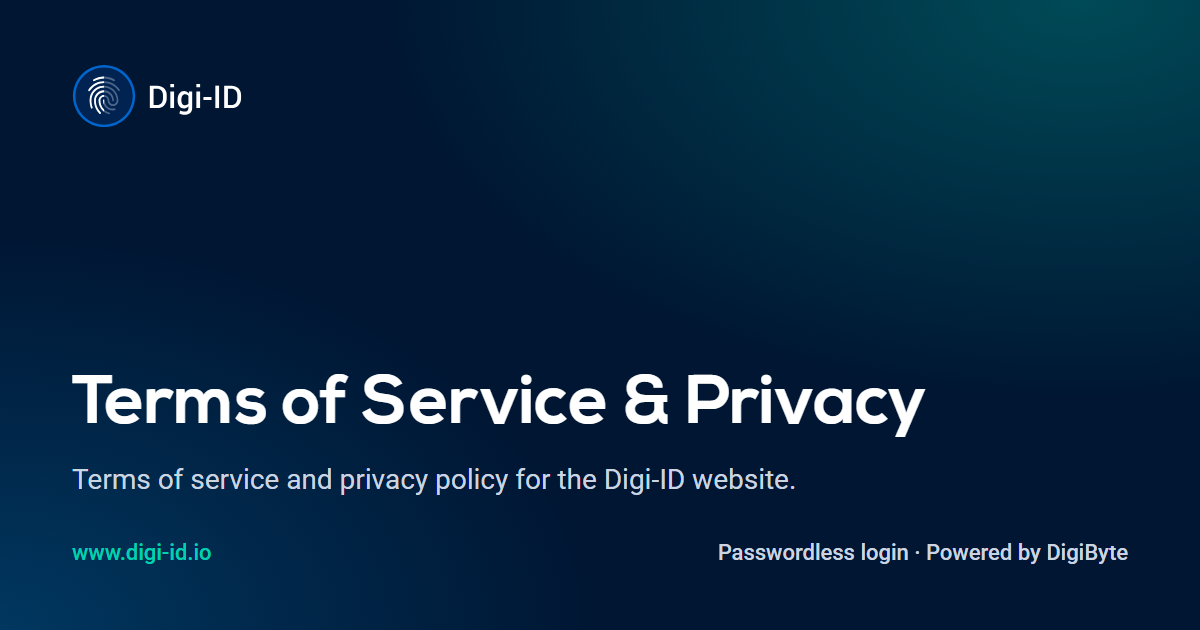
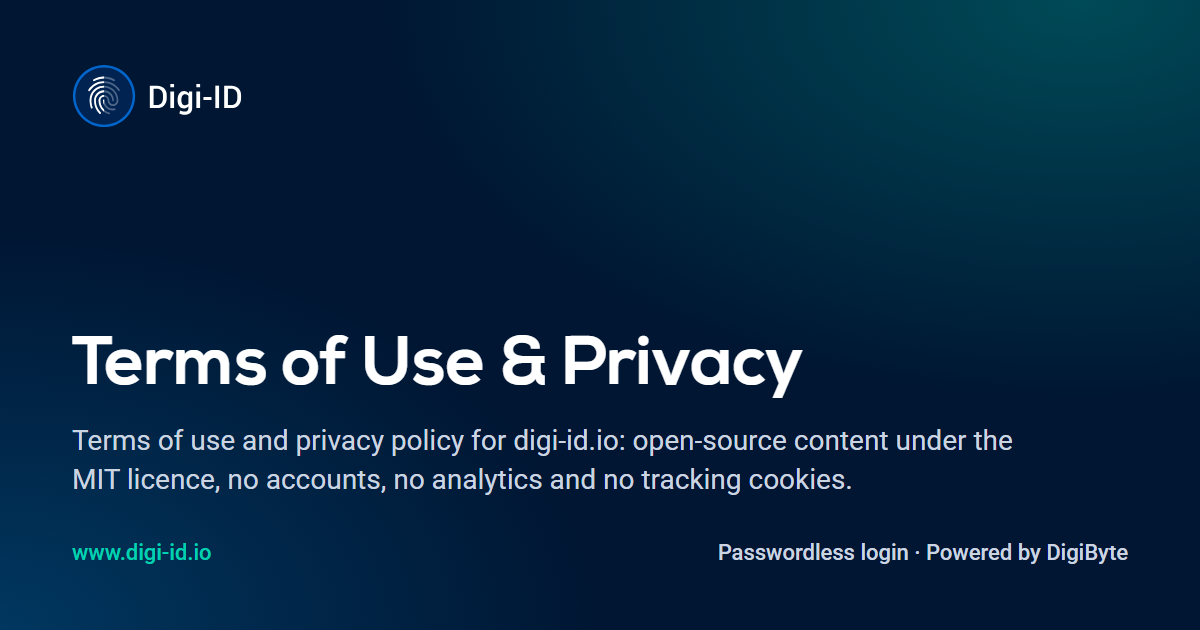
List Coinomi, prepare digiid-core for npm, rewrite terms and privacy, add launch gates and traffic snapshots

Changed region(s): [[0.0617, 0.5127, 0.8633, 0.7841]]

diff --git a/src/pages/ToS.html b/src/pages/ToS.html
@@ -1,76 +1,66 @@
 ---
 {
-  "title": "Terms of Service & Privacy – Digi-ID",
-  "description": "Terms of service and privacy policy for the Digi-ID website."
+  "title": "Terms of Use & Privacy – Digi-ID",
+  "description": "Terms of use and privacy policy for digi-id.io: open-source content under the MIT licence, no accounts, no analytics and no tracking cookies."
 }
 ---
 <article class="section" aria-labelledby="tos-title">
   <div class="container-x">
     <div class="prose-doc">
-      <h1 id="tos-title" class="text-4xl">Digi-ID Terms of Service</h1>
+      <p class="eyebrow">Last updated 27 September 2026</p>
+      <h1 id="tos-title" class="text-4xl">Terms of Use &amp; Privacy</h1>
+      <p class="text-lg text-slate-600 dark:text-slate-400">digi-id.io is an open-source, volunteer-run website about the Digi-ID protocol. It has no accounts, sells nothing and does not track you. The short version: use it freely, at your own risk, and nothing you do here is collected by us.</p>
 
-      <h2>1. Terms</h2>
-      <p>By accessing the website at <a href="https://www.digi-id.io">https://www.digi-id.io</a>, you are agreeing to be bound by these terms of service, all applicable laws and regulations, and agree that you are responsible for compliance with any applicable local laws. If you do not agree with any of these terms, you are prohibited from using or accessing this site. The materials contained in this website are protected by applicable copyright and trademark law.</p>
+      <h2 id="terms">Terms of use</h2>
 
-      <h2>2. Use License</h2>
-      <ol type="a">
-        <li>Permission is granted to temporarily download one copy of the materials (information or software) on Digi-ID's website for personal, non-commercial transitory viewing only. This is the grant of a license, not a transfer of title, and under this license you may not:
-          <ol type="i">
-            <li>modify or copy the materials;</li>
-            <li>use the materials for any commercial purpose, or for any public display (commercial or non-commercial);</li>
-            <li>attempt to decompile or reverse engineer any software contained on Digi-ID's website;</li>
-            <li>remove any copyright or other proprietary notations from the materials; or</li>
-            <li>transfer the materials to another person or &ldquo;mirror&rdquo; the materials on any other server.</li>
-          </ol>
-        </li>
-        <li>This license shall automatically terminate if you violate any of these restrictions and may be terminated by Digi-ID at any time. Upon terminating your viewing of these materials or upon the termination of this license, you must destroy any downloaded materials in your possession whether in electronic or printed format.</li>
-      </ol>
+      <h3>1. Who runs this site</h3>
+      <p>This site is maintained by volunteers from the DigiByte community in the open-source <a href="{{ site.repo }}" rel="noopener" target="_blank">digi-id-io repository</a>. It is not operated by a company, and no one is paid to run it.</p>
 
-      <h2>3. Disclaimer</h2>
-      <ol type="a">
-        <li>The materials on Digi-ID's website are provided on an &lsquo;as is&rsquo; basis. Digi-ID makes no warranties, expressed or implied, and hereby disclaims and negates all other warranties including, without limitation, implied warranties or conditions of merchantability, fitness for a particular purpose, or non-infringement of intellectual property or other violation of rights.</li>
-        <li>Further, Digi-ID does not warrant or make any representations concerning the accuracy, likely results, or reliability of the use of the materials on its website or otherwise relating to such materials or on any sites linked to this site.</li>
-      </ol>
+      <h3>2. Licence</h3>
+      <p>The site's source code, including the example code and the <code>digiid-core</code> library, is released under the <a href="{{ site.repo }}/blob/main/LICENSE" rel="noopener" target="_blank">MIT licence</a>. You may use, copy, modify and redistribute it, including commercially, as that licence allows. The Digi-ID and DigiByte names and logos identify the community projects; please don't use them in a way that suggests endorsement of your product.</p>
 
-      <h2>4. Limitations</h2>
-      <p>In no event shall Digi-ID or its suppliers be liable for any damages (including, without limitation, damages for loss of data or profit, or due to business interruption) arising out of the use or inability to use the materials on Digi-ID's website, even if Digi-ID or a Digi-ID authorized representative has been notified orally or in writing of the possibility of such damage. Because some jurisdictions do not allow limitations on implied warranties, or limitations of liability for consequential or incidental damages, these limitations may not apply to you.</p>
+      <h3>3. The demo and playground</h3>
+      <p>The sandbox demo and signature playground run entirely in your browser. The demo's simulated wallet uses a throwaway key that is never stored or sent anywhere. <strong>Never enter a real recovery phrase or private key into any website</strong>, including this one &mdash; nothing here will ever ask you to.</p>
 
-      <h2>5. Accuracy of materials</h2>
-      <p>The materials appearing on Digi-ID's website could include technical, typographical, or photographic errors. Digi-ID does not warrant that any of the materials on its website are accurate, complete or current. Digi-ID may make changes to the materials contained on its website at any time without notice. However Digi-ID does not make any commitment to update the materials.</p>
+      <h3>4. No warranty</h3>
+      <p>The site, documentation, code samples and libraries are provided &ldquo;as is&rdquo;, without warranty of any kind, express or implied, including fitness for a particular purpose. Security-sensitive code should be reviewed and tested before you rely on it in production. To the extent permitted by law, the contributors are not liable for any loss or damage arising from use of this site or its materials.</p>
 
-      <h2>6. Links</h2>
-      <p>Digi-ID has not reviewed all of the sites linked to its website and is not responsible for the contents of any such linked site. The inclusion of any link does not imply endorsement by Digi-ID of the site. Use of any such linked website is at the user's own risk.</p>
+      <h3>5. Third-party sites and services</h3>
+      <p>We link to wallets, libraries and other projects. Listing in the <a href="/ecosystem.html">ecosystem</a> is based on public proof of Digi-ID support, not an endorsement or audit. Those sites have their own terms and privacy policies. Account problems with a service that uses Digi-ID must be resolved with that service.</p>
 
-      <h2>7. Modifications</h2>
-      <p>Digi-ID may revise these terms of service for its website at any time without notice. By using this website you are agreeing to be bound by the then current version of these terms of service.</p>
+      <h3>6. Contributions</h3>
+      <p>Issues, pull requests and ecosystem submissions are welcome on GitHub and are subject to GitHub's terms. By contributing, you agree your contribution is licensed under the MIT licence.</p>
 
-      <h2>8. Governing Law</h2>
-      <p>These terms and conditions are governed by and construed in accordance with the laws of Worldwide and you irrevocably submit to the exclusive jurisdiction of the courts in that State or location.</p>
+      <h3>7. Changes</h3>
+      <p>These terms may change as the site evolves. Changes are made in the public repository, so the full history is always visible, and the date at the top of this page is updated.</p>
 
-      <h2 id="privacy">Privacy Policy</h2>
-      <p>Your privacy is important to us. It is Digi-ID's policy to respect your privacy regarding any information we may collect from you across our website, <a href="https://www.digi-id.io">https://www.digi-id.io</a>, and other sites we own and operate.</p>
-      <h3>Information we collect</h3>
-      <p>We collect information by fair and lawful means, with your knowledge and consent. We also let you know why we're collecting it and how it will be used. You are free to refuse our request for this information, with the understanding that we may be unable to provide you with some of your desired services without it.</p>
-      <h3>Use of information</h3>
-      <p>We may use a combination of identifying and non-identifying information to understand who our visitors are, how they use our services, and how we may improve their experience of our website in future. We do not disclose the specifics of this information publicly, but may share aggregated and anonymised versions of this information, for example, in website and customer usage trend reports.</p>
-      <h3>Data processing and storage</h3>
-      <p>We only retain personal information for as long as necessary to provide a service, or to improve our services in future. While we retain this data, we will protect it within commercially acceptable means to prevent loss and theft, as well as unauthorised access, disclosure, copying, use or modification. That said, we advise that no method of electronic transmission or storage is 100% secure, and cannot guarantee absolute data security.</p>
-      <h3>Third-party access to information</h3>
-      <p>We may use third-party services for our website and marketing activity. These services may access our data solely for the purpose of performing specific tasks on our behalf. We do not share any personally identifying information with these services without your explicit consent. We do not give these services permission to disclose or use any of our data for any other purpose.</p>
-      <p>We will refuse government and law enforcement requests for data if we believe a request is too broad or unrelated to its stated purpose. However, we may cooperate if we believe the requested information is necessary and appropriate to comply with legal process, to protect our own rights and property, to protect the safety of the public and any person, to prevent a crime, or to prevent what we reasonably believe to be illegal, legally actionable, or unethical activity.</p>
-      <p>We do not otherwise share or supply personal information to third parties. We do not sell or rent your personal information to marketers or third parties.</p>
-      <h3>Children's Privacy</h3>
-      <p>This website does not knowingly target or collect personal information from children. As a parent/guardian, please contact us if you believe your child is participating in an activity involving personal information on our website, and you have not received a notification or request for consent. We do not use your supplied contact details for marketing or promotional purposes.</p>
-      <h3>Limits of our policy</h3>
-      <p>This privacy policy only covers Digi-ID's own collecting and handling of data. We only work with partners, affiliates and third-party providers whose privacy policies align with ours, however we cannot accept responsibility or liability for their respective privacy practices.</p>
-      <p>Our website may link to external sites that are not operated by us. Please be aware that we have no control over the content and policies of those sites, and cannot accept responsibility or liability for their respective privacy practices.</p>
-      <h3>Changes to this policy</h3>
-      <p>At our discretion, we may update this policy to reflect current acceptable practices. We will take reasonable steps to let users know about changes via our website. Your continued use of this site after any changes to this policy will be regarded as acceptance of our practices around data and personal information.</p>
-      <h3>Your rights and responsibilities</h3>
-      <p>As our user, you have the right to be informed about how your data is collected and used. You are entitled to know what data we collect about you, and how it is processed. You are entitled to correct and update any personal information about you, and to request this information be deleted.</p>
-      <p>You are entitled to restrict or object to our use of your data, while retaining the right to use your personal information for your own purposes. You have the right to opt out of data about you being used in decisions based solely on automated processing.</p>
-      <p>Feel free to contact us if you have any concerns or questions about how we handle your data and personal information.</p>
-      <p>This policy is effective as of 10 May 2018.</p>
+      <h2 id="privacy">Privacy policy</h2>
+
+      <h3>What we collect</h3>
+      <p>Nothing. The site has no sign-up, no forms that send data to us, no analytics and no advertising or tracking cookies.</p>
+
+      <h3>What stays in your browser</h3>
+      <ul>
+        <li><strong>Theme choice:</strong> if you switch between light and dark mode, the choice is saved in your browser's local storage so it persists. It never leaves your device.</li>
+        <li><strong>Preferred code language:</strong> the language tab you pick in code samples is remembered the same way.</li>
+        <li><strong>Demo keys:</strong> held in memory only and discarded when you leave or refresh the page.</li>
+      </ul>
+      <p>You can clear these at any time by clearing this site's data in your browser settings.</p>
+
+      <h3>Hosting</h3>
+      <p>The site is served as static files by GitHub Pages. Like any web host, GitHub may process technical data such as your IP address to deliver pages and protect its service; see the <a href="https://docs.github.com/site-policy/privacy-policies/github-general-privacy-statement" rel="noopener" target="_blank">GitHub Privacy Statement</a>. Fonts, icons and scripts are served from this site, not from third-party CDNs.</p>
+
+      <h3>Embedded video</h3>
+      <p>The explainer video is not loaded until you press play. When you do, it is embedded from YouTube's privacy-enhanced domain (<code>youtube-nocookie.com</code>), and YouTube's <a href="https://policies.google.com/privacy" rel="noopener" target="_blank">privacy policy</a> applies to that playback.</p>
+
+      <h3>GitHub interactions</h3>
+      <p>If you open an issue, discussion or pull request, that happens on GitHub under your GitHub account and is public.</p>
+
+      <h3>Children</h3>
+      <p>The site is not directed at children and collects no personal information from anyone.</p>
+
+      <h3>Questions</h3>
+      <p>Questions about these terms or this policy can be raised in <a href="{{ site.discussions }}" rel="noopener" target="_blank">GitHub Discussions</a> or as an <a href="{{ site.repo }}/issues" rel="noopener" target="_blank">issue</a>. See also the <a href="/disclaimer.html">disclaimer</a>.</p>
     </div>
   </div>
 </article>

diff --git a/packages/digiid-core/README.md b/packages/digiid-core/README.md
@@ -1,0 +1,64 @@
+# digiid-core
+
+Digi-ID passwordless authentication for JavaScript and TypeScript. Build `digiid://` challenges, derive per-site keys, sign like a wallet and verify wallet callbacks. Works in browsers and Node.js 20+, with no DigiByte node or network access required.
+
+This is the code behind the [digi-id.io](https://www.digi-id.io) demo and signature playground, tested against the published Digi-ID derivation vector.
+
+```sh
+npm install digiid-core
+```
+
+## Verify a wallet callback (server)
+
+```js
+import { verifyCallback } from 'digiid-core';
+
+app.post('/digiid/callback', express.json(), (req, res) => {
+  const result = verifyCallback(req.body, { callback: 'https://www.example.com/digiid/callback' });
+  if (!result.valid) return res.status(401).json({ error: result.reason });
+
+  // result.nonce: look up the pending challenge, check it hasn't expired, then consume it.
+  // result.address: the user's Digi-ID for your site.
+  res.json({ message: 'Digi-ID verified' });
+});
+```
+
+`verifyCallback` checks the URI scheme, host and path against your callback, rejects `u=1` (plain HTTP) unless `allowUnsecure: true`, and verifies the DigiByte message signature. Nonce storage, expiry and single use are up to your app. See [Nonces, timeouts and replay protection](https://www.digi-id.io/guides/nonce-replay.html).
+
+## Issue a challenge
+
+```js
+import { buildUri, createNonce } from 'digiid-core';
+
+const nonce = createNonce(); // 128-bit hex from crypto.getRandomValues
+const uri = buildUri({ callback: 'https://www.example.com/digiid/callback', nonce });
+// digiid://www.example.com/digiid/callback?x=…  -> show as a QR code and a link
+```
+
+## Wallet side
+
+```js
+import { deriveKey, deriveAddress, signMessage, mnemonicToSeed } from 'digiid-core';
+
+const key = deriveKey(mnemonicToSeed(mnemonic), uri); // m/13'/A'/B'/C'/D' for this site
+const address = deriveAddress(key.publicKey);
+const signature = signMessage(uri, key.privateKey);
+```
+
+## API
+
+| Function | Purpose |
+| --- | --- |
+| `buildUri({ callback, nonce, unsecure? })` | Create a `digiid://` challenge URI |
+| `parseUri(uri)` | Parse a challenge into `{ host, path, nonce, unsecure }`, or `null` |
+| `callbackUrlFromUri(uri)` | The callback URL wallets post to and derive keys from |
+| `createNonce(bytes = 16)` | Random hex nonce |
+| `derivationPath(uri, index = 0)` | BIP32 path numbers for a site |
+| `deriveKey(seed, uri, index = 0)` | BIP32 `HDKey` for a site |
+| `deriveAddress(publicKey)` | DigiByte P2PKH address (`D…`) |
+| `mnemonicToSeed(mnemonic)` | BIP39 seed bytes |
+| `signMessage(message, privateKey)` | Base64 DigiByte signed-message signature |
+| `verifyMessage(address, signature, message)` | `true` if the signature matches |
+| `verifyCallback(payload, { callback, allowUnsecure? })` | Full callback check with a reason on failure |
+
+Built on the audited [@noble](https://paulmillr.com/noble/) and [@scure](https://github.com/paulmillr/scure-bip32) libraries. MIT licensed.

diff --git a/README.md b/README.md
@@ -15,6 +15,8 @@ npm run build      # production build -> _site/
 npm test           # data lint + unit tests (packages/digiid-core)
 npm run test:e2e   # Playwright + axe against _site/ (run `npx playwright install chromium` once)
 npm run lighthouse # Lighthouse budgets for / and /developers.html
+npm run verify     # every launch gate above, in order
+npm run images     # regenerate app icons and social preview images after title or logo changes
 ```
 
 | Path | What it is |
@@ -25,7 +27,7 @@ npm run lighthouse # Lighthouse budgets for / and /developers.html
 | `src/data/` | `sdks.json`, `guides.json`, `use-cases.json`, `ecosystem.json` (+ schema), `site.json` |
 | `src/js/` | Browser modules (`site.js`, `demo.js`, `playground.js`) |
 | `src/css/app.css` | Tailwind entry with brand tokens and light/dark themes |
-| `packages/digiid-core/` | Digi-ID URI, key derivation, signing and verification (used by the demo and playground) |
+| `packages/digiid-core/` | Digi-ID URI, key derivation, signing and verification (used by the demo and playground; published to npm as `digiid-core` by tagging `digiid-core-v<version>`) |
 
 ## Add your project to the ecosystem
 
